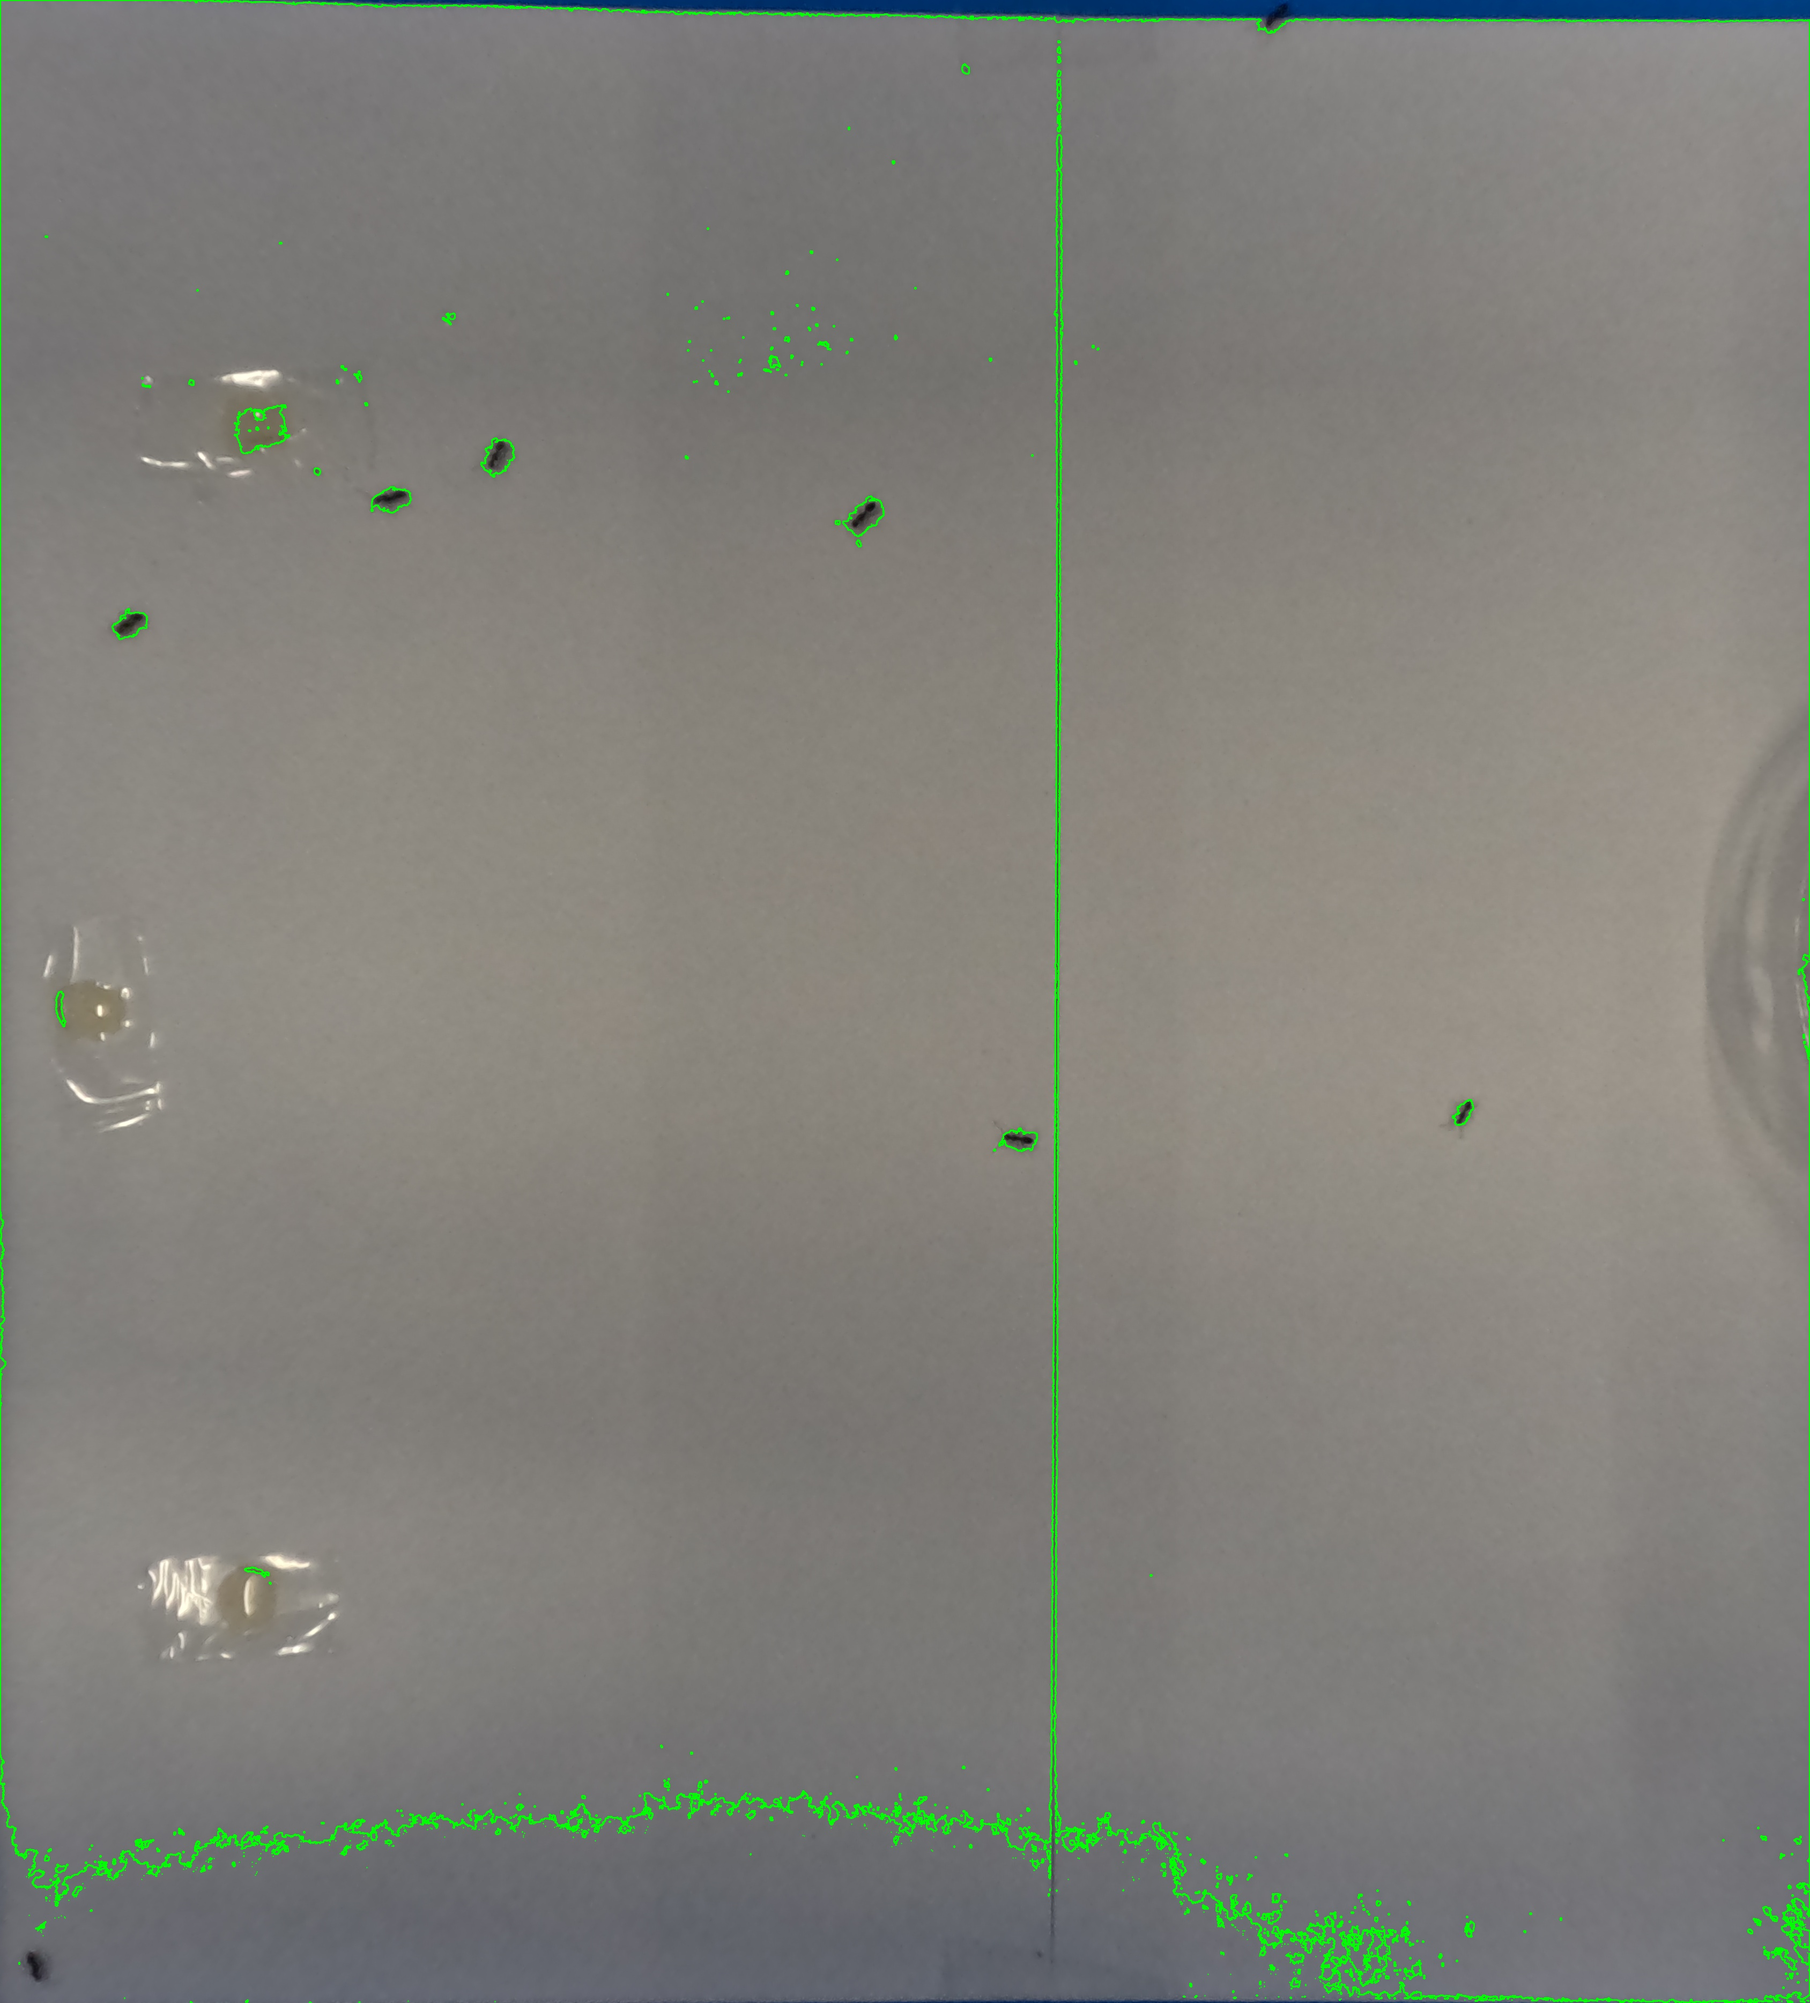
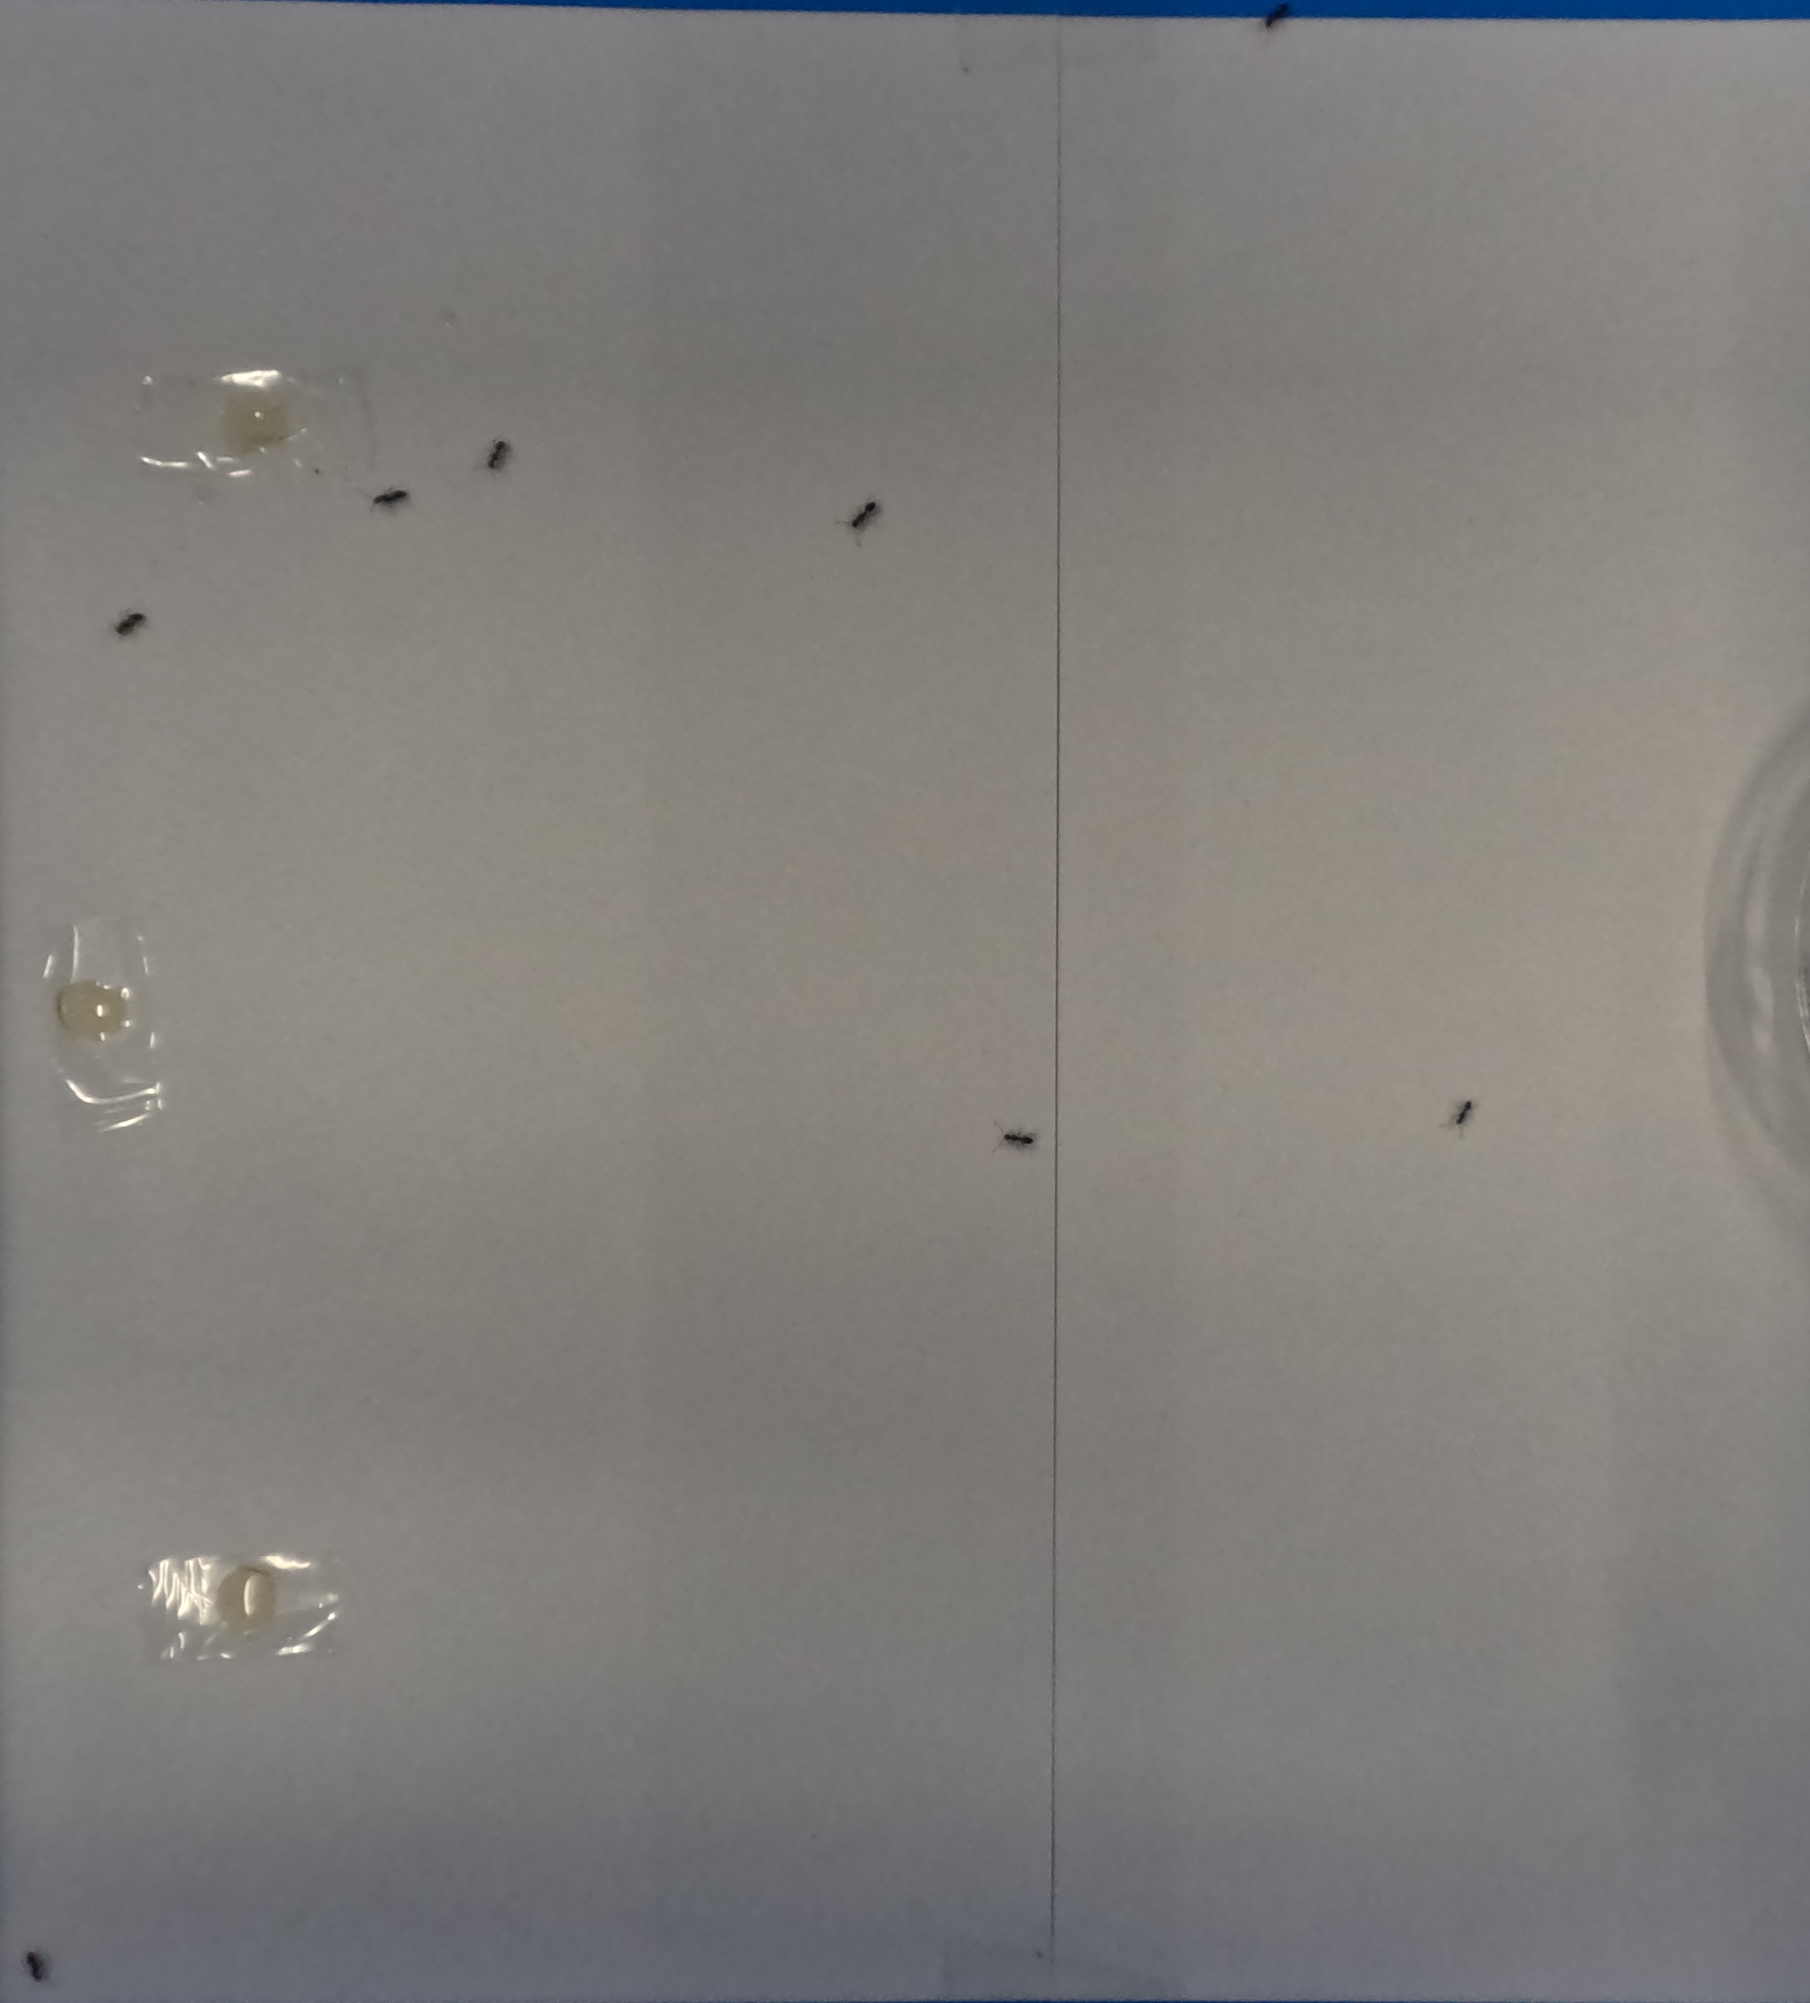
fix: fix result image

diff --git a/src/normal.py b/src/normal.py
@@ -20,9 +20,9 @@ def normal():
 
     # Find contours (輪郭抽出)
     # 参考サイト: https://www.codevace.com/py-opencv-findcontours/
-    contours, hierarchy = cv2.findContours(threshold, cv2.RETR_LIST, cv2.CHAIN_APPROX_NONE)
+    contours, _ = cv2.findContours(threshold, cv2.RETR_LIST, cv2.CHAIN_APPROX_NONE)
     # Draw contours (輪郭描画)
-    contours_image = image
+    contours_image = image.copy()
     cv2.drawContours(contours_image, contours, -1, color=(0, 255, 0), thickness=2)
     cv2.imwrite('../data/normal/contours.jpg', image)
 

diff --git a/src/red.py b/src/red.py
@@ -18,9 +18,9 @@ def red():
     cv2.imwrite('../data/red/threshold.jpg', threshold)
 
     # Find contours (輪郭抽出)
-    contours, hierarchy = cv2.findContours(threshold, cv2.RETR_LIST, cv2.CHAIN_APPROX_NONE)
+    contours, _ = cv2.findContours(threshold, cv2.RETR_LIST, cv2.CHAIN_APPROX_NONE)
     # Draw contours (輪郭描画)
-    contours_image = image
+    contours_image = image.copy()
     cv2.drawContours(contours_image, contours, -1, color=(0, 255, 0), thickness=2)
     cv2.imwrite('../data/red/contours.jpg', image)
 
